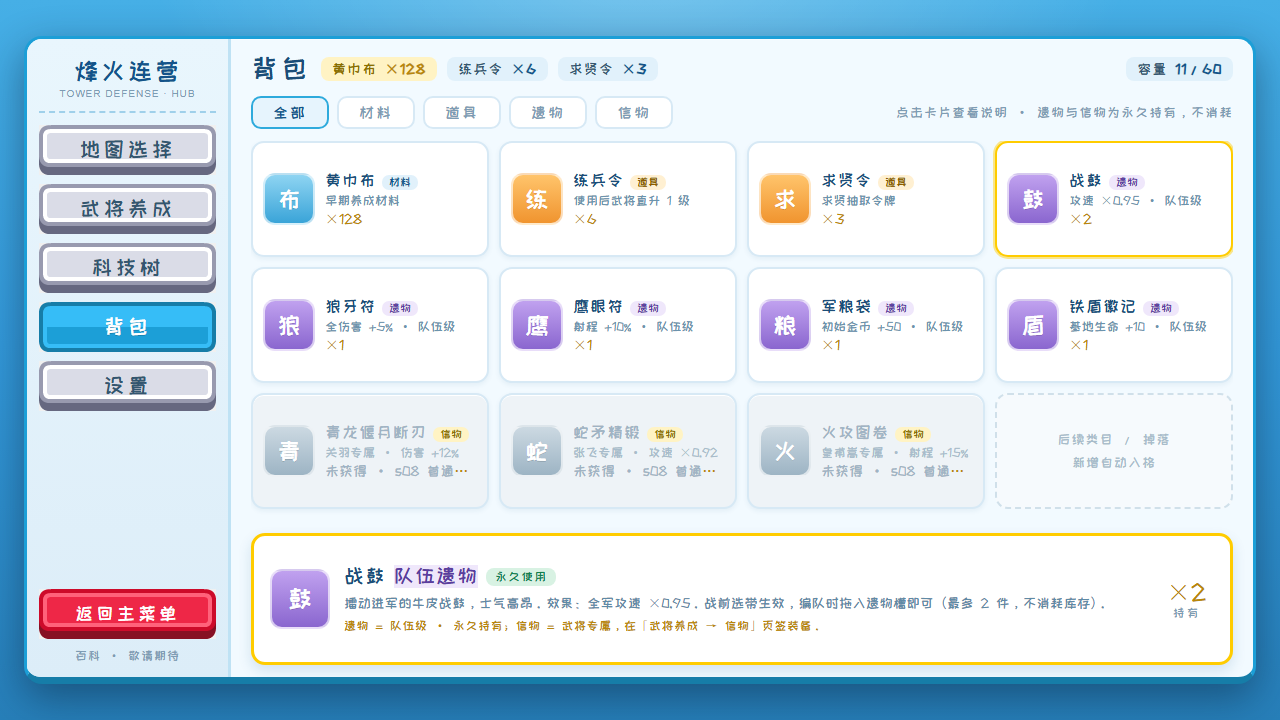
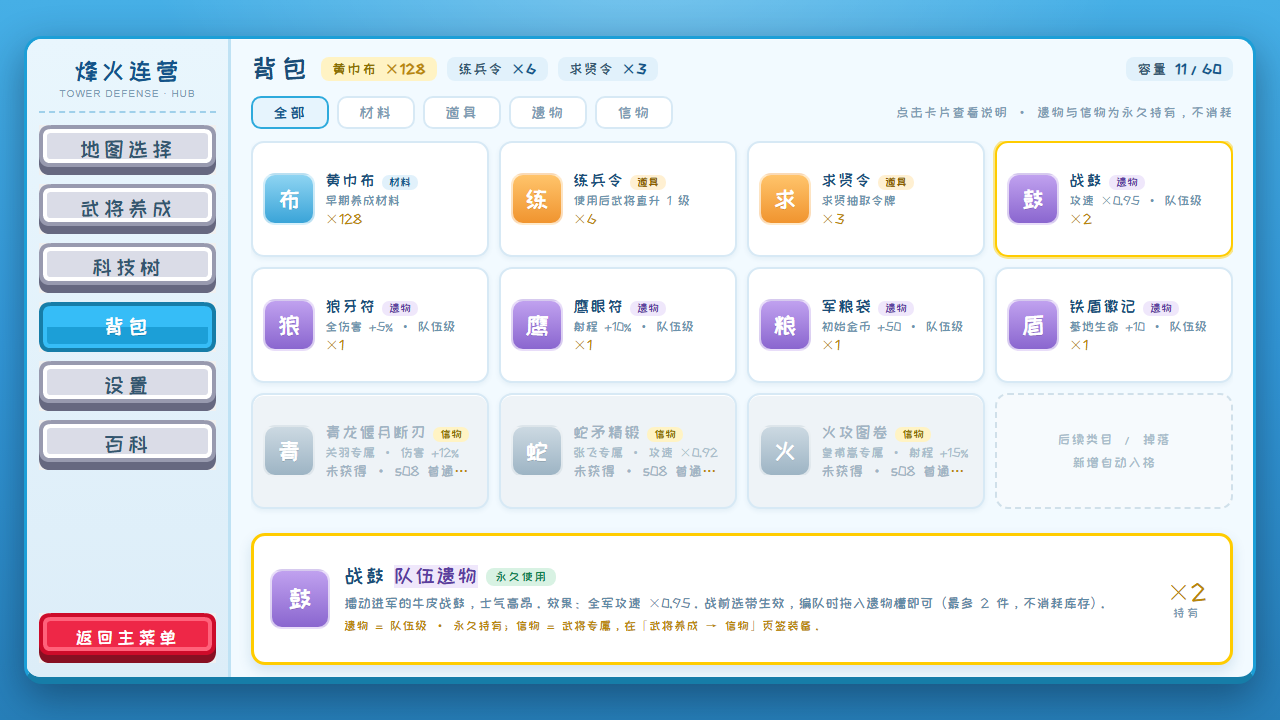
feat(v0.33.8): 阶段8·提交8延伸（程序0.8.8.8）——提交9（游戏百科）概念图存档与养成技能页签概念稿：六张大厅屏概念图侧栏加入「百科」按钮（ui_hub_map/ui_develop/ui_tech/ui_inventory/ui_settings 覆盖更新，位于设置与返回主菜单之间，开发随提交9）、武将养成新增「技能」页签（页签序=技能/转职/信物/特性：职业大招+职业技能+角色专属技能，ui_develop 覆盖更新）、百科两屏新概念图存档（ui_encyclopedia 武将图鉴：左9将+五页签+数值模拟器条 / ui_encyclopedia_enemy 敌人图鉴

Changed region(s): [[0.0312, 0.7944, 0.1875, 0.9472], [0.0312, 0.5806, 0.1875, 0.6722]]

diff --git a/docs/modules/UI_LAYOUT.md b/docs/modules/UI_LAYOUT.md
@@ -1,7 +1,8 @@
 # 界面排版设计规范（UI_LAYOUT）
 
 > 隶属《烽火连营·三国塔防》设计文档体系，总纲见 [../GAME_DESIGN.md](../GAME_DESIGN.md)，界面职责表见 [UI.md](UI.md)。
-> 文档版本：v0.15（2026-09-03）
+> 文档版本：v0.16（2026-09-03）
+> v0.16 变更（2026-09-03，阶段 8·提交 8 延伸·修复 8，武将养成技能页签 + 游戏百科概念图存档，用户拍板 2026-09-03）：①**大厅侧栏「百科」按钮入列六屏概念图**——地图选择×2 / 武将养成 / 科技树 / 背包 / 设置，按钮位于「设置」与「返回主菜单」之间（阶段 8 提交 9 前置设计，开发随提交 9 接入 GameHub，新增只加按钮不改结构）；②**武将养成新增「技能」页签**（概念图 `docs/ui_concept/ui_develop.png` 覆盖更新，页签序=技能/转职/信物/特性）——技能页=职业大招（怒气上限 100，满怒自动释放/可选手动）+ 职业技能（常驻光环 + 当前档位状态）+ 角色专属技能（A 主动/B 条件）；职业技能档位强化仍收敛「转职」页；③**新增 §12 游戏百科排版规范**（原 §12 验收标准顺延 §13、§13 不做什么顺延 §14）——概念图 `docs/ui_concept/ui_encyclopedia.png`（武将图鉴）与 `ui_encyclopedia_enemy.png`（敌人图鉴）存档，完整设计见 ENCYCLOPEDIA v0.1.3。
 > v0.15 变更（2026-09-03，主菜单 Kenney 换肤首屏落地，用户拍板 2026-09-03）：①**新增 §3 主菜单排版规范**——概念图 `ui_home.png` 落地 `MainMenu`（程序 0.8.8.6）：天空三档蓝渐变（#46afe6→#3399da→#277fb9）+ 顶部/两下角白色柔光 + 低透明度星形装饰；主标 78px 白字深蓝投影、副标/星条饰件/章节行齐全；主按钮 296×84 38px 黄（主行动，深蓝墨字 #22384a）/ 红（新的征程，白字，仅存档存在时显示）/ 灰（退出，深蓝墨字），Kenney 九宫格三态素材 `assets/ui/buttons/rect/{yellow,red,grey}/{normal,hover,pressed}.png`（原图 384×128、裁边 24），换肤封装 `UITheme.apply_kenney_rect_button` 供后续面板复用；「新的征程」确认弹窗改自绘白面弹窗（对齐 `ui_dialog.png`，替换原生 ConfirmationDialog）；底栏左版本右素材署名；②**章节编号顺延**——新增 §3 后，原 §3~§12 顺延为 §4~§13（当前正文引用同步，历史 changelog 编号保留原貌）。
 > v0.14 变更（2026-09-03，UI 概念图扩充与地图选关改版，用户拍板 2026-09-03）：①**大厅·地图选关概念图改版**（`ui_hub_map.png` 覆盖更新）——章节选择移至顶部下拉框（后续章节灰显「敬请期待」）、关卡 2×4 卡片紧凑满档（状态/星级/一句话简介/敌人/波次·经验/首通奖励，数据对齐 `StageData` 与 STAGES.md）、通关统计上移顶栏、底部新增「关卡预告」详情条（敌人/波次/参战经验/推荐经济四栏 + 首通奖励徽章 + 出征按钮）；②**新增五屏概念图存档**——`ui_develop.png` 武将养成（左 2 列列表 + 右上基础信息卡 + 右下转职页签，属性按 `compute_stats_at` 实算）、`ui_tech.png` 科技树（四页签 + 三层节点状态色 + 底部详情）、`ui_inventory.png` 背包（类目筛选 + 网格 + 底部说明条，未获得信物灰卡示源）、`ui_settings.png` 设置（画面/音频/玩法/数据与关于分组）、`ui_squad.png` 编队（独立整屏：标题带关卡与难度 → 武将 3×3 → 羁绊提示条 → 队伍遗物 2/2 → 底部操作条，对应 §6）；③**滚动容器规范**——科技树/背包/编队列表区用可滚动容器（内容超出滚动兜底、不撑爆页面；滚动条样式统一浅蓝圆角）；④**术语统一**——「出击费用」更名「建造费用」（= 局内 `build_cost`，养成属性格与编队卡面同步）。
 > v0.13 变更（2026-09-03，UI 视觉风格定稿与全局字体，风格拍板 2026-09-03）：①**视觉风格方向定稿**——Kenney UI Pack 亮蓝底 + 站酷快乐体（Q 版活泼风），概念图存档 `docs/ui_concept/`（`ui_home.png` 首页 / `ui_dialog.png` 新的征程确认弹窗 / `ui_button_states.png` 按钮四态 / `ui_hub_map.png` 大厅·地图选择）；②**全局字体接入**——`assets/fonts/ZCOOL-Kuaile.ttf` + `assets/ui/ui_theme.tres`（默认字体=快乐体，回退微软雅黑/黑体等系统字体），`project.godot` `gui/theme/custom` 全量应用（冒烟/流程/回归测试全绿）；③**语义色映射**——Kenney 黄=主行动（UITheme GOLD 语义，视觉上以黄替金）、红=警示（RED）、灰=中性（GRAY）、蓝=信息（BLUE）、绿=成功（GREEN）；按钮四态（normal/hover/pressed/disabled）样式见 `ui_button_states.png`；正式换肤（按钮九宫格/面板底图/背景替换程序化色块）排期待定。
@@ -61,9 +62,9 @@
 
 ## 4. 大厅布局（GameHub）
 
-- 左侧功能栏固定 250px：图标+文字按钮纵向排列（地图 / 养成 / 科技 / 背包 / 设置 / 返回主菜单）；**选中态金色高亮 + 左侧金色竖条**，未选中为灰色文字。
+- 左侧功能栏固定 250px：图标+文字按钮纵向排列（地图 / 养成 / 科技 / 背包 / 设置 / **百科** / 返回主菜单；百科=阶段 8 提交 9 前置设计，开发随提交 9，见 §12）；**选中态金色高亮 + 左侧金色竖条**，未选中为灰色文字。
 - 右侧内容区：内容面板统一 MarginContainer 内边距（左右 24 / 上下 32），标题统一 28px 金色。
-- 预留：侧栏按钮可新增（如后续"挑战"入口；"求贤"独立入口随抽将暂时移除 v0.30.0），新增只加按钮不改结构。
+- 预留：侧栏按钮可新增（如后续"挑战"入口；"求贤"独立入口随抽将暂时移除 v0.30.0），新增只加按钮不改结构；「百科」按钮概念图已入列（v0.33.8，规范见 §12），开发随阶段 8 提交 9。
 
 ## 5. 地图选关（MapPanel）——本提交重点重构
 
@@ -86,6 +87,7 @@
 - **左侧武将列表**：网格 2 列卡片（头像占位 / 姓名 / 职业 / 等级；**每次切回面板整体重载**——新增武将与等级随档案实时刷新，v0.32.1）；未解锁=图鉴灰卡（显示获取方式）；选中金色边框。
 - **右侧上半=基础信息卡**（只展示基础信息）：等级 + 经验条、职业、**角色称号（金色小字）**、当前属性摘要（伤害 / 攻速 / 射程，蓝色数值）。
 - **右侧下半=页签区（TabBar）**，进阶信息全部经页签切换：
+  - 「技能」（概念图已存档 v0.33.8，开发待排期）：职业大招（怒气上限 100，满怒自动释放 / 设置面板可选手动）+ 职业技能（常驻项与当前档位状态，二转强化详情见「转职」页）+ 角色专属技能（A 主动冷却 / B 条件触发，见 CHARACTER_SKILLS.md）；与百科武将详情技能页签（§12）信息同源、展示侧重不同。
   - 「转职」：一转/二转路线、材料需求、技能说明（现有转职流程迁入；转职操作带**确认弹窗**——提示不可逆、展示目标职业，确认 / 取消 / 右上角关闭均正确释放，v0.32.2）。
   - 「升星」：星级展示、碎片数量、升星按钮与效果说明（现有升星区迁入；**随 v0.30.0 暂时移除**）。
   - 「信物」：信物装备 / 更换（现有信物区迁入；信物 = 武将专属，与队伍级遗物区分，v0.33.1）。
@@ -131,7 +133,18 @@
 
 - 分区（画面 / 音频 / 玩法）折叠分组；开关 + 滑块控件；当前值高亮（蓝色），改动即时生效并持久化（沿用 settings.cfg）。
 
-## 12. 验收标准（阶段 8·提交 4）
+## 12. 游戏百科（EncyclopediaPanel）——阶段 8 提交 9 前置设计（概念图存档 v0.33.8）
+
+> 只读信息中心，完整设计见 [ENCYCLOPEDIA.md](ENCYCLOPEDIA.md)；本节省排版层约束（Kenney 亮蓝 + 快乐体，与其余大厅屏一致）。概念图 `../ui_concept/ui_encyclopedia.png`（武将图鉴）/ `ui_encyclopedia_enemy.png`（敌人图鉴）。
+
+- **入口**：大厅侧栏「百科」按钮（位于「设置」与「返回主菜单」之间，见 §4）；提交 9 开发时接入 GameHub，新增按钮不改侧栏结构。
+- **整屏结构**：顶栏标题「游戏百科」+ 状态标签（全量图鉴 / 只读不写档）→ 顶部大分段按钮「武将图鉴 / 敌人图鉴」互斥切换 → 下方内容区左右两栏。
+- **武将图鉴视图**：左列表 = 9 名武将 2 列网格（头像占位 / 姓名 / 职业·定位；含未拥有、全量可见）→ 右侧详情卡：头部（头像 / 姓名 / 职业与称号标签 / 获取方式）+ 页签「基础 / 技能 / 转职 / 信物 / 特性」（基础=职业定位 / 等级上限 / 属性摘要 / 角色简介 / 获取方式；技能=角色专属技能 A/B + 职业大招说明，职业技能与档位随「转职」页全量；转职 / 信物 / 特性与养成面板同源）→ 底部**数值模拟器条**（等级 1~30 步进 / 转职任选不校验条件 / 局内升阶 0~3 分段；结果直算展示伤害 / 攻速 / 射程；标注「预览不影响存档」，只读不写档）。
+- **敌人图鉴视图**：左列表 = 第一章 7 种敌人 2 列网格（造型色块 / 名称 / 定位）→ 右侧详情卡：头部（造型色块 / 名称 / Boss 等标签 / 出现关卡）+ 基础面板（生命基准 / 速度 / 护甲 / 漏怪伤害 / 击杀奖励）+ 特殊行为卡（玩家向文案）→ **各档难度面板**（当前 2 档=标准 ×1.0 / 困难 ×1.4：HP 随难度缩放并展示换算值，其余项注明「不随难度变化」；随 `difficulty_presets` 自动扩档）→ 口径注脚。
+- **滚动兜底**：内容超高时列表 / 详情区用可滚动容器（规范见 v0.14 ③），概念图一屏完整无滚动条。
+- **解锁规则**：当前全量可见；「发现解锁 / 难度面板解锁」随阶段 10 接入（见 ENCYCLOPEDIA §2.3 / §3.2）。
+
+## 13. 验收标准（阶段 8·提交 4）
 
 - 地图选关：第一章 8 关 **2×4 网格一屏展示、无滚动条**；章节一行可点，锁定章节不挤占主区。
 - 武将养成：基础信息一屏可见；转职 / 信物 / 特性（预留）经页签可达（升星页签随 v0.30.0、遗物页签随 v0.33.1 移除——遗物为队伍级：选带在编队页 §7、库存与效果在背包页 §9）；新增页签不改布局。
@@ -140,7 +153,7 @@
 - 建造（v0.33.3）：拖拽为唯一建造方式——卡片拖出后虚影 / 攻击范围圈 / 绿红落点格反馈齐全；松手直建、右键与 ESC 取消；绿色 + 与预锁位不再出现。
 - 回归：流程测试（解锁 / 编队 / 布局规范）与冒烟测试全绿，一键通关与结算链路不受影响。
 
-## 13. 不做什么
+## 14. 不做什么
 
 - 不做正式美术素材（立绘 / 图标仍为程序化占位，见总纲【远期】）。
 - 不做移动端/窗口自适应（分辨率固定 1280×720）。

diff --git a/README.md b/README.md
@@ -4,7 +4,7 @@
 
 ![游戏截图](docs/screenshot.png)
 
-## 当前状态：阶段 8 提交 5~8 完成（提交 5=职业技能收敛+虎贲重构+角色技能 v0.29.0 及修复延伸 0.8.5.1~0.8.5.6；提交 6=转职体系重构·职业级转职树 v0.31.0 / 0.8.6.0，延伸 0.8.6.1=v0.31.2 难度两档化+地图面板交互、0.8.6.2=v0.31.4 命中事件拆分（远程命中结算后计怒气/稳射）；提交 7=职业技能双轨 v0.32.0 / 0.8.7.0——6 个二转新技能接入（突袭/护卫/连矢/奇门/余音/震地）+ 强化显示规则 + 增益收敛档次 1 常驻光环桶，延伸 0.8.7.1=v0.32.1 武将养成切回整体重载、0.8.7.2=v0.32.2 一转确认弹窗修复（Godot4 canceled 信号）；提交 8=转职数值提升 v0.33.0 / 0.8.8.0——18 节点对照 SKILLS 4.1 三张表复核 + 非链式确认 + 效果型大招接入转职大招倍率（B-018）；延伸 0.8.8.1=v0.33.1 出征流程调整（编队页确认出战/返回选关/队伍记忆）+ 局内遗物永久使用 + 养成移除遗物页签、延伸 0.8.8.2=v0.33.2 编队羁绊标签裁剪修复（1/3 裁成 1/）+ 战场可建格悬停预览与引导文案澄清、延伸 0.8.8.3=v0.33.3 局内建造改拖拽（移除绿色+/推荐位/点击建造，武将虚影+攻击范围+绿红格提示，松手直建；卡片面板重设计）、延伸 0.8.8.4=v0.33.4 UI 视觉风格定稿与全局字体（Kenney 亮蓝概念图 docs/ui_concept/ + 站酷快乐体全局主题 assets/ui/ui_theme.tres）、延伸 0.8.8.5=v0.33.5 UI 概念图扩五屏与大厅地图选关改版（顶部章节下拉/关卡预告条/滚动容器规范/建造费用术语统一）、延伸 0.8.8.6=v0.33.6 主菜单 Kenney 换肤首屏落地（按 ui_home.png：天空三档蓝渐变+柔光星饰、Kenney 九宫格三态大按钮、自绘「新的征程」确认弹窗，UITheme 换肤基建，UI_LAYOUT §3）、延伸 0.8.8.7=v0.33.7 角色图鉴数据缺口修复（B-022：初始武将获取方式 / 赵云周仓诸葛亮特性补配与观星顺序）+ 提交 9 设计定稿（ENCYCLOPEDIA v0.1.2：技能页签 / 难度口径 / 星级移除））；下一步提交 9（游戏百科，原提交 5 放最后）→ 提交 10（数值基准测试，含增益收敛档次 2/3；职业/角色定位决策基准 v0.31.7）→ 阶段 9 待开发（文档 v0.33.7，程序 0.8.8.7）
+## 当前状态：阶段 8 提交 5~8 完成（提交 5=职业技能收敛+虎贲重构+角色技能 v0.29.0 及修复延伸 0.8.5.1~0.8.5.6；提交 6=转职体系重构·职业级转职树 v0.31.0 / 0.8.6.0，延伸 0.8.6.1=v0.31.2 难度两档化+地图面板交互、0.8.6.2=v0.31.4 命中事件拆分（远程命中结算后计怒气/稳射）；提交 7=职业技能双轨 v0.32.0 / 0.8.7.0——6 个二转新技能接入（突袭/护卫/连矢/奇门/余音/震地）+ 强化显示规则 + 增益收敛档次 1 常驻光环桶，延伸 0.8.7.1=v0.32.1 武将养成切回整体重载、0.8.7.2=v0.32.2 一转确认弹窗修复（Godot4 canceled 信号）；提交 8=转职数值提升 v0.33.0 / 0.8.8.0——18 节点对照 SKILLS 4.1 三张表复核 + 非链式确认 + 效果型大招接入转职大招倍率（B-018）；延伸 0.8.8.1=v0.33.1 出征流程调整（编队页确认出战/返回选关/队伍记忆）+ 局内遗物永久使用 + 养成移除遗物页签、延伸 0.8.8.2=v0.33.2 编队羁绊标签裁剪修复（1/3 裁成 1/）+ 战场可建格悬停预览与引导文案澄清、延伸 0.8.8.3=v0.33.3 局内建造改拖拽（移除绿色+/推荐位/点击建造，武将虚影+攻击范围+绿红格提示，松手直建；卡片面板重设计）、延伸 0.8.8.4=v0.33.4 UI 视觉风格定稿与全局字体（Kenney 亮蓝概念图 docs/ui_concept/ + 站酷快乐体全局主题 assets/ui/ui_theme.tres）、延伸 0.8.8.5=v0.33.5 UI 概念图扩五屏与大厅地图选关改版（顶部章节下拉/关卡预告条/滚动容器规范/建造费用术语统一）、延伸 0.8.8.6=v0.33.6 主菜单 Kenney 换肤首屏落地（按 ui_home.png：天空三档蓝渐变+柔光星饰、Kenney 九宫格三态大按钮、自绘「新的征程」确认弹窗，UITheme 换肤基建，UI_LAYOUT §3）、延伸 0.8.8.7=v0.33.7 角色图鉴数据缺口修复（B-022：初始武将获取方式 / 赵云周仓诸葛亮特性补配与观星顺序）+ 提交 9 设计定稿（ENCYCLOPEDIA v0.1.2：技能页签 / 难度口径 / 星级移除）、延伸 0.8.8.8=v0.33.8 提交 9 概念图存档（六张大厅屏侧栏加「百科」按钮 + 武将养成技能页签概念图 ui_develop 覆盖更新 + 百科两屏 ui_encyclopedia/ui_encyclopedia_enemy 存档；UI_LAYOUT v0.16 §12 / ENCYCLOPEDIA v0.1.3，未开发））；下一步提交 9（游戏百科，原提交 5 放最后）→ 提交 10（数值基准测试，含增益收敛档次 2/3；职业/角色定位决策基准 v0.31.7）→ 阶段 9 待开发（文档 v0.33.8，程序 0.8.8.8）
 
 - 完整流程：主菜单 → 游戏大厅（地图/养成/科技/背包/设置）→ 编队 → 战斗 → 结算 → 解锁 → 存档；战斗退出确认后回游戏大厅，大厅侧栏「返回主菜单」回主菜单（v0.15.2 回归验证）
 - 重复游玩：概率掉落表、信物装备、科技树、三档难度（碎片升星与求贤抽奖已暂时移除 v0.30.0）
@@ -49,7 +49,7 @@
 - 阶段 8 提交 7 延伸·修复 2（v0.32.2 / 0.8.7.2）：武将一转确认弹窗改用 Godot 4 canceled/close_requested 信号（原误用 Godot 3 旧名 cancelled，点击一转即报 Invalid access、弹窗无法弹出）；新增常驻回归测试 PromoteDialogRunner（弹出 / 取消 / 关闭 / 确认四场景）
 - 阶段 8 提交 8（v0.33.0 / 0.8.8.0，转职数值提升）：18 节点（6 一转 + 12 二转，勘误原「16 节点」笔误）三围/大招倍率对照 SKILLS.md 4.1 三张表复核一致（SmokeRunner 逐节点断言）；倍率以未转职为基准、只应用 promotion_path 末位、不链式相乘；效果型大招（鼓舞/破阵激励段）接入转职 ultimate_multiplier（`Tower.ultimate_effect_power()`，修复 B-018——凤仪 ×1.2/绕梁 ×1.15/陷阵激励 ×1.25 原不生效）；数值待提交 10 基准测试校验
 - 阶段 8 提交 10 排期（v0.31.1，待开发）：数值基准测试——headless 基准 Runner（tests/BenchmarkRunner.gd）+ 基线快照回归（±3% 容差）；4 项基准：单体木桩 DPS（断言对照 SKILLS.md 4.1 预算区间，不链式相乘）/ 3 目标 AOE DPS / 精英·Boss DPS（职业克制·破城·武圣·斩杀返怒）/ 支援贡献团队收益（鼓舞·军旗·仁德·月下舞）；职业乘数（damage/range/attack_interval_multiplier）同步标记为纯参考字段、不参与计算
-- 游戏百科（v0.33.7 设计定稿，阶段 8 提交 9）：侧栏"百科"入口——武将图鉴（全量信息 + 基础/技能/转职/信物/特性页签 + 等级/转职/升阶数值模拟，只读预览不写档；星级模拟随升星 v0.30.0 暂时移除）+ 敌人图鉴（各档难度面板：当前 2 档=标准/困难，HP 随难度、漏怪伤害/速度/护甲不变并注明 + 出现关卡）；发现解锁后续随阶段 10 渐进解锁实施，设计规范见 docs/modules/ENCYCLOPEDIA.md v0.1.2
+- 游戏百科（v0.33.7 设计定稿，阶段 8 提交 9）：侧栏"百科"入口——武将图鉴（全量信息 + 基础/技能/转职/信物/特性页签 + 等级/转职/升阶数值模拟，只读预览不写档；星级模拟随升星 v0.30.0 暂时移除）+ 敌人图鉴（各档难度面板：当前 2 档=标准/困难，HP 随难度、漏怪伤害/速度/护甲不变并注明 + 出现关卡）；发现解锁后续随阶段 10 渐进解锁实施；**概念图存档 v0.33.8**（docs/ui_concept/ui_encyclopedia.png·ui_encyclopedia_enemy.png，六张大厅屏侧栏「百科」按钮已入列，布局规范见 docs/modules/UI_LAYOUT.md v0.16 §12），设计规范见 docs/modules/ENCYCLOPEDIA.md v0.1.3
 - 体验打磨（v0.19.1~v0.19.6）：版本号同步 0.9.0-alpha、战斗内设置弹窗（暂停调整即时生效持久化）、编队/养成/战斗选中态金色高亮、地图选关与养成/背包长内容滚动条、编队界面文案修正、打包版目录扫描修复（PCK 兼容，v0.19.6）
 - 测试工具（v0.15.1）：地图面板「一键通关」按正常胜利结算写档（刷奖励/推进解锁链）、大厅「背包」页签查看道具并发放练兵令、练兵令使用后武将直接升 1 级
 - 设置（v0.15.3）：新增「自动开启下一波」（波次结束自动开始，默认关闭，免逐波点击）

diff --git a/docs/modules/UI.md b/docs/modules/UI.md
@@ -10,7 +10,7 @@
 | 界面 | 内容 | 阶段 | 状态 |
 |---|---|---|---|
 | 主菜单 | 开始游戏（进入游戏大厅）、新的征程（覆盖存档需确认）、退出游戏（唯一进程退出入口） | 阶段1 | ✅ v0.10.1（养成入口移出主菜单）；Kenney 首页落地 v0.33.6（按 ui_home.png 换肤，规范见 UI_LAYOUT §3） |
-| 游戏大厅 | **左侧功能面板**：地图选择 / 武将养成 / 科技树 / **背包**（✅ v0.15.1）/ 设置（+ 返回主菜单）；右侧内容区按所选功能切换 | 阶段1 | ✅ v0.10.1（`GameHub.tscn`，代码构建 UI）；科技页签 v0.14；背包 v0.15.1 |
+| 游戏大厅 | **左侧功能面板**：地图选择 / 武将养成 / 科技树 / **背包**（✅ v0.15.1）/ 设置 / **百科**（📝 概念图入列 v0.33.8，开发随提交 9）（+ 返回主菜单）；右侧内容区按所选功能切换 | 阶段1 | ✅ v0.10.1（`GameHub.tscn`，代码构建 UI）；科技页签 v0.14；背包 v0.15.1 |
 | 章节选择（地图选择面板） | 章节列表（第一章可用，第二~七章锁定占位预留）→ 关卡列表（前置未通关锁定、已通关标注；第一章 8 关全量展示，**章节/关卡列表均可滚动** ✅ v0.19.4）、难度按钮（v0.14.1，✅ v0.16.0 修复：所选难度随关卡进入与一键通关生效）、**一键通关（测试）**（✅ v0.15.1：按正常胜利结算规则写档，可重复刷奖励） | 阶段1 | ✅ v0.10.1（章节→关卡两级）；一键通关 v0.15.1；滚动列表 v0.19.4 |
 | 编队 | 纵向分区定稿（✅ v0.33.1）：标题区（关卡+难度）→ 武将选择网格（`squad_size` 上限、选中金边、羁绊标签——随勾选实时刷新，v0.33.2）→ 羁绊提示条 → 遗物选带区（最多 2 件，**永久使用**标记）→ 底部操作条（**返回选关**——保留关卡与难度 / **确认出战**——金色主按钮）；「确认出战」带**二次确认弹窗**（展示关卡/难度/武将名单/遗物清单），确认后才进入游戏；编队**持久记忆自动预填**（存档 `squad_character_ids` / `squad_relic_ids`） | 阶段1 | ✅ v0.9（`SquadSelect.tscn`，达上限禁止继续勾选）；羁绊 v0.17.0；遗物 v0.19.0（消耗规则随 v0.33.1 改**永久使用**）；纵向分区 / 确认出战 / 返回选关 / 记忆预填 v0.33.1 |
 | 战斗 | 建造栏（职业标签/等级/负担置灰）、波次预告、金钱/生命、**拖拽建造**（✅ v0.33.3：唯一建造方式——按住顶部武将卡片拖出，武将虚影 + 攻击范围圈跟随鼠标，落点格可建绿 / 不可建红，松手直接建造，右键 / ESC / 原地松手取消；除道路 / 禁建地形 / 已占用格外的任意空地可建；绿色 + 推荐位、预锁位、点击建造 / 两次确认已移除）、**设置**（✅ v0.19.2：顶栏"设置"按钮，暂停并弹出设置弹窗，关闭恢复）、**军需**（✅ v0.21.0：顶栏"军需"按钮，不暂停弹窗购买局内道具）、退出（未结算需确认，确认后返回游戏大厅而非退出游戏，见 GDD v0.9.3）、已建塔交互（**属性面板**：地图正下方，展示伤害/攻速/射程（AOE 职业含爆散）与**升阶**（✅ v0.21.0 更名，上限 3 阶）/回收/释放大招，见 modules/STAGES.md 5.4）、**武将怒气条**（✅ v0.15.0 美化：分段槽+边框，满怒金色脉动）、**大招演出**（✅ v0.15.0：大招名飘字 + 职业专属视觉）、**Boss 演出**（✅ v0.15.0：登场横幅 + 血条强化）、浮字（✅ v0.15.0：技能触发/特性反馈飘字） | 阶段1（已有基础） | ✅ v0.12.2/v0.15.0/v0.21.0 |
@@ -31,7 +31,7 @@
 | 挑战目标（结算页） | 胜利结算页展示 3 个全局目标达成勾选（不使用军需 / 基地≥80% / 击败全部精英）与关卡星级（0~3 星），奖励少量材料（见 STAGES.md 5.8） | 阶段10 | 📝 v0.24.0 拍板，待排期 |
 | 系统渐进解锁与首用说明 | 按关卡通关进度开放系统入口；首次使用弹一次简短说明（可跳过、不重复） | 阶段10 | 📝 v0.24.0 拍板，待排期 |
 | 界面排版重构 | 全局排版与信息分层规范（见 [UI_LAYOUT.md](UI_LAYOUT.md) v0.1）：地图选关 2×4 网格一屏展示（去除竖排滚动条）；武将养成页签化（基础信息+转职/信物/特性分页；升星页签与求贤入口随 v0.30.0、遗物页签随 v0.33.1 移除（遗物为队伍级：选带在编队页、库存/效果在背包页））；全局语义色板统一（金=关键/绿=达标/红=不足/蓝=数值） | 阶段8 | 📝 v0.24.2 设计定稿，未开发 |
-| 游戏百科 | 侧栏"百科"入口：武将图鉴（全量信息 + 基础/技能/转职/信物/特性页签 + 数值模拟器：等级/转职/升阶预览（星级随升星 v0.30.0 暂时移除），只读不写档）+ 敌人图鉴（各档难度面板 + 出现关卡，当前 2 档=标准/困难：HP 随难度、漏怪伤害/速度/护甲不变并注明，随 difficulty_presets 扩展）；发现解锁后续随阶段 10 实施（见 [ENCYCLOPEDIA.md](ENCYCLOPEDIA.md) v0.1.2） | 阶段8 | 📝 v0.33.7 设计定稿，未开发 |
+| 游戏百科 | 侧栏"百科"入口：武将图鉴（全量信息 + 基础/技能/转职/信物/特性页签 + 数值模拟器：等级/转职/升阶预览（星级随升星 v0.30.0 暂时移除），只读不写档）+ 敌人图鉴（各档难度面板 + 出现关卡，当前 2 档=标准/困难：HP 随难度、漏怪伤害/速度/护甲不变并注明，随 difficulty_presets 扩展）；发现解锁后续随阶段 10 实施（见 [ENCYCLOPEDIA.md](ENCYCLOPEDIA.md) v0.1.3）；概念图存档 v0.33.8（docs/ui_concept/ui_encyclopedia.png·ui_encyclopedia_enemy.png，布局见 UI_LAYOUT §12） | 阶段8 | 📝 v0.33.7 设计定稿 + v0.33.8 概念图存档，未开发 |
 
 - **流程导航**：场景跳转统一经 `GameFlow`（`goto_menu/goto_hub/goto_squad_select/goto_battle`）；游戏大厅为选关/养成/设置的统一入口，跨场景临时状态（选中关卡、当前大厅页签）由 `GameFlow` 持有；**出战编队（武将 + 遗物）自 v0.33.1 起在「确认出战」时持久化**（存档 `squad_character_ids` / `squad_relic_ids`），再次出征自动预填（v0.33.1 前"编队不落存档"表述作废）。
 - **美术**：当前用程序化矢量占位（`EnemyData.body_color`、`body_size` 已有；塔与弹道按职业绘制）；正式立绘【远期】。武将塔与敌人应有明显阵营配色区分。表现层实现细则（职业造型、弹道绘制）随实现演进，不影响本表职责划分。

diff --git a/docs/modules/ENCYCLOPEDIA.md b/docs/modules/ENCYCLOPEDIA.md
@@ -1,10 +1,11 @@
 # 游戏百科（ENCYCLOPEDIA）
 
 > 隶属《烽火连营·三国塔防》设计文档体系，总纲见 [../GAME_DESIGN.md](../GAME_DESIGN.md)，界面排版规范见 [UI_LAYOUT.md](UI_LAYOUT.md)，界面职责表见 [UI.md](UI.md)。
-> 文档版本：v0.1.2（2026-09-03）
+> 文档版本：v0.1.3（2026-09-03）
+> v0.1.3 变更（2026-09-03，阶段 8·提交 8 延伸·修复 8，概念图存档）：①**百科两屏概念图存档** `docs/ui_concept/ui_encyclopedia.png`（武将图鉴）/ `ui_encyclopedia_enemy.png`（敌人图鉴）——武将页：左 9 将 2 列网格全量 + 右侧 基础/技能/转职/信物/特性 页签 + 底部数值模拟器条（等级 1~30 / 转职任选 / 局内升阶 0~3，标注「预览不影响存档」）；敌人页：左 7 种列表 + 基础面板（生命基准/速度/护甲/漏怪伤害/击杀奖励）+ 特殊行为卡 + 各档难度面板（HP 随 `enemy_hp_mult`，其余注明不随难度）+ 出现关卡，布局规范见 UI_LAYOUT v0.16 §12；②**养成面板「技能」页签（非百科）概念图存档**（`docs/ui_concept/ui_develop.png`）与百科技能页签的分层说明——养成技能页含 职业大招 + 职业技能（常驻项与当前档位）+ 角色专属技能；百科「技能」页签仍按 v0.1.2 = 角色专属技能 + 职业大招（职业技能与档位随百科「转职」页全量展示）；两处技能展示信息同源、侧重不同，落地实现以本档与 UI_LAYOUT v0.16 为准。
 > v0.1.2 变更（2026-09-03，阶段 8·提交 8 延伸·修复 7，提交 9 设计定稿）：①武将详情新增「技能」页签——角色专属技能（A 主动/B 条件，见 CHARACTER_SKILLS.md）与职业大招说明，转职页只承载职业级转职树、职业技能与档位；②敌人难度面板口径按实算收口——HP 随 `Difficulty.enemy_hp_mult()`，**漏怪伤害 / 速度 / 护甲不随难度变化**（原「HP/伤害随难度」表述与实现不符，BalanceData 无伤害倍率字段）；③数值模拟器**星级项随升星 v0.30.0 暂时移除**（`compute_stats_at` 签名 stars 参数保留，恢复时启用）；④数值同源表述收口——`compute_stats_at` 新增 `battle_rank` 参数，升阶乘区与 `Tower.apply_battle_rank` / `get_battle_rank_*` 共享实现、禁止另写；⑤配套数据修复（BUGS B-022）：初始武将关羽/刘备 `unlock_stage_id` 清空（图鉴获取方式显示「初始解锁」）、赵云/周仓/诸葛亮补配 `trait_id` 与 `trait_params`（特性页签与局内表现一致）。
 > v0.1.1 变更（2026-09-02，阶段 8·提交 6 延伸）：难度体系两档化后同步——敌人图鉴难度面板由「三档（轻松/标准/困难）」改为「各档（当前 2 档=标准/困难）」，档位数随 difficulty_presets 自动扩展（v0.31.2）。
-> 应用阶段：**阶段 8·提交 9（游戏百科，原提交 5）**，设计定稿（v0.33.7 / 0.8.8.7），未开发。
+> 应用阶段：**阶段 8·提交 9（游戏百科，原提交 5）**，设计定稿（v0.33.7 / 0.8.8.7）；概念图存档（v0.33.8 / 0.8.8.8，布局规范见 UI_LAYOUT v0.16 §12）。未开发。
 > 范围：武将图鉴（全量信息 + 数值模拟器）与敌人图鉴（各档难度面板，当前 2 档=标准/困难，随 difficulty_presets 扩展 + 出现关卡）；后续"发现解锁"与阶段 10 渐进解锁一并实施。
 
 ---
